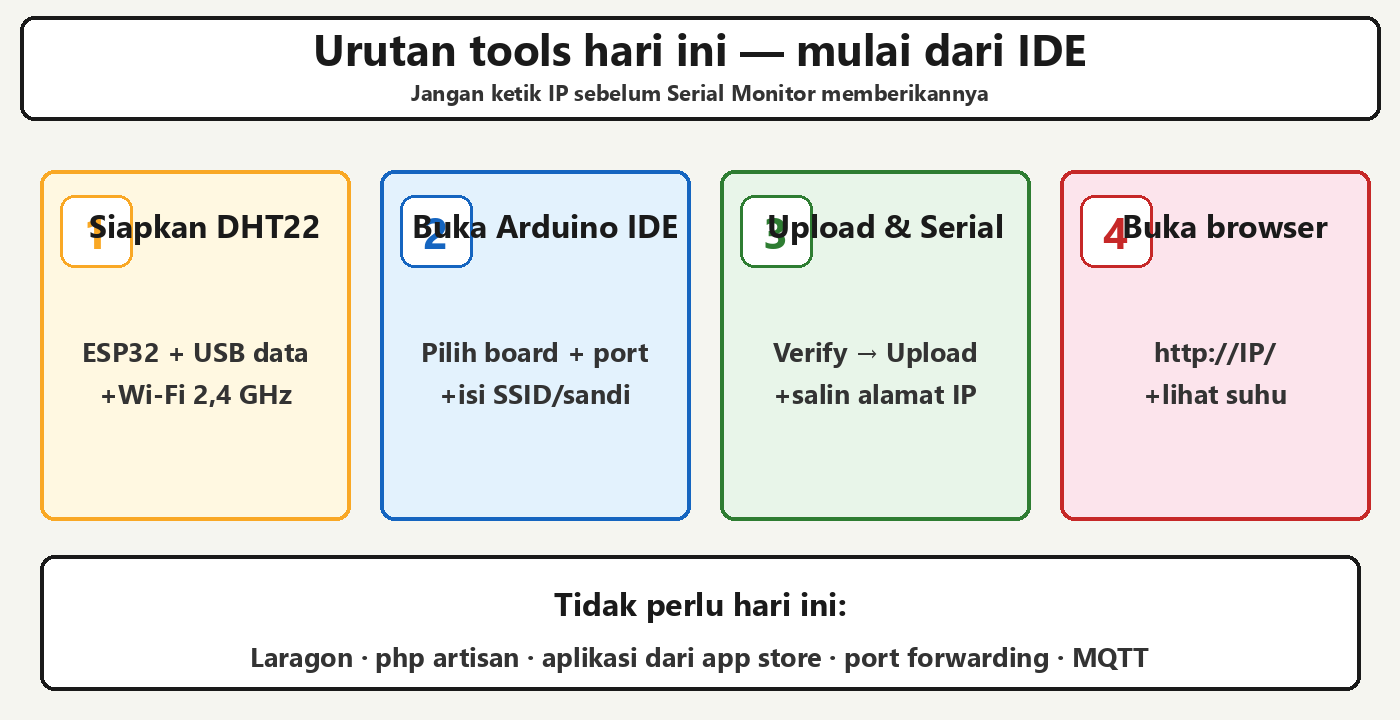
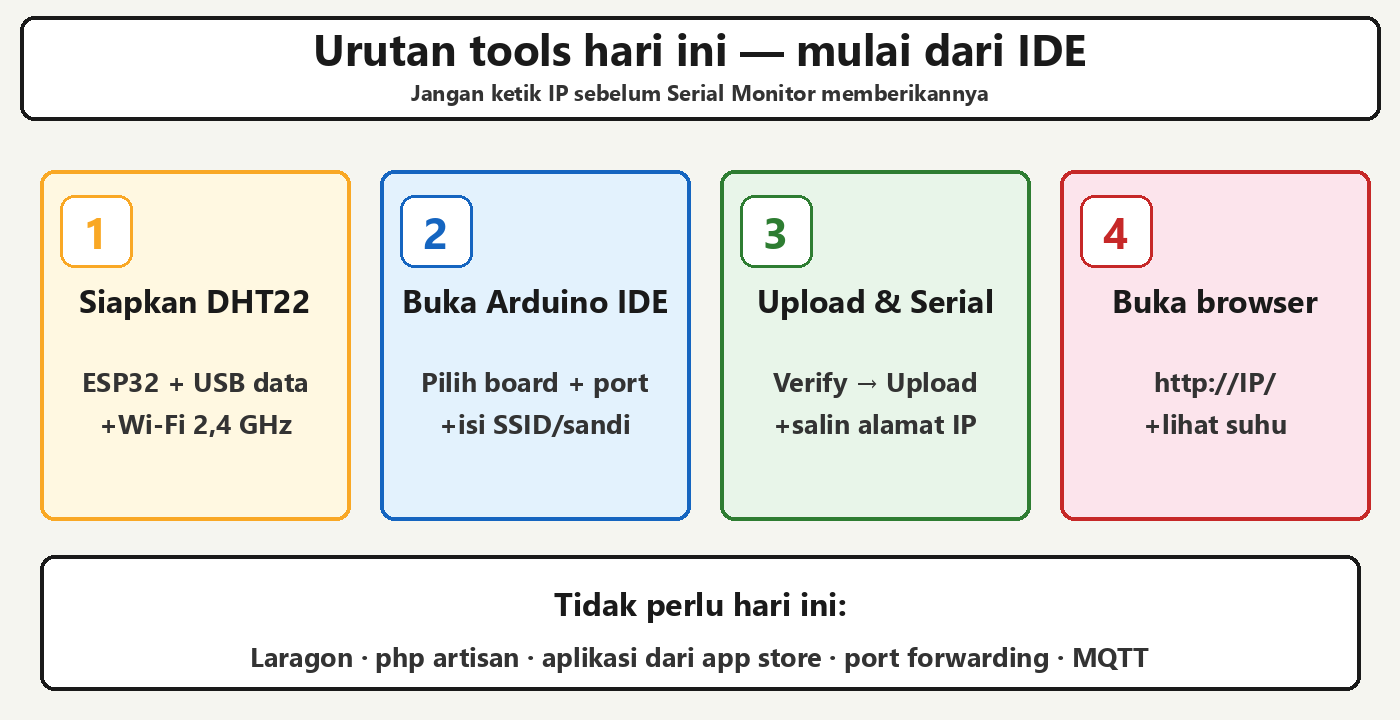
fix(fsiot): polish FS-31 preview assets and schema

diff --git a/scripts/audit-article101.php b/scripts/audit-article101.php
@@ -10,6 +10,8 @@ $routes = file_get_contents($root.'/routes/web.php');
 $controller = file_get_contents($root.'/app/Http/Controllers/DeployController.php');
 $workflow = file_get_contents($root.'/.github/workflows/deploy.yml');
 $blade = file_get_contents($root.'/resources/views/articles/show.blade.php');
+$breadcrumbBlade = file_get_contents($root.'/resources/views/components/breadcrumb.blade.php');
+$authorBlade = file_get_contents($root.'/resources/views/authors/show.blade.php');
 $langId = file_get_contents($root.'/lang/id/ui.php');
 $langEn = file_get_contents($root.'/lang/en/ui.php');
 
@@ -43,6 +45,7 @@ check('workflow curl101 exists', str_contains($workflow, 'id: curl101'));
 check('workflow assets allowlisted', str_contains($workflow, 'fs31-local-network.png') && str_contains($workflow, 'fs31-cover-web-server.webp'));
 check('deploy hook token is enforced for every public action', ! preg_match('/^    public function \w+\([^\n]*\)\R    \{\R(?!        \$this->authorizeDeployHook\(\);)/m', $controller));
 check('deploy token is accepted only through the request header', str_contains($controller, "request()->header('X-Deploy-Token')") && ! str_contains($controller, "request()->query('token'"));
+check('JSON-LD @context is escaped from Blade directives', str_contains($blade, '"@@context"') && str_contains($breadcrumbBlade, "chr(64) . 'context'") && str_contains($authorBlade, "chr(64) . 'context'"));
 
 check('ID self reference', str_contains($body, '#101 (ini)'));
 check('EN self reference', str_contains($bodyEn, '#101 (this article)'));

diff --git a/scripts/gen-fs31-assets.py b/scripts/gen-fs31-assets.py
@@ -78,9 +78,9 @@ for index, (number, title, body, fill, color) in enumerate(steps):
     box(draw, (left, 170, left + 310, 520), fill, color)
     box(draw, (left + 20, 195, left + 92, 267), "#FFFFFF", color, 3)
     text(draw, left + 56, 231, number, TITLE, color)
-    text(draw, left + 165, 225, title, HEADING)
+    text(draw, left + 155, 300, title, HEADING)
     for line_index, line in enumerate(body.split("\n")):
-        text(draw, left + 155, 350 + line_index * 42, line, BODY, "#333333")
+        text(draw, left + 155, 380 + line_index * 42, line, BODY, "#333333")
 box(draw, (40, 555, 1360, 690))
 text(draw, 700, 603, "Tidak perlu hari ini:", HEADING)
 text(draw, 700, 655, "Laragon · php artisan · aplikasi dari app store · port forwarding · MQTT", BODY, "#333333")

diff --git a/resources/views/components/breadcrumb.blade.php b/resources/views/components/breadcrumb.blade.php
@@ -18,7 +18,7 @@
 @push('schema')
 <script type="application/ld+json">
 {!! json_encode([
-    '@context' => 'https://schema.org',
+    chr(64) . 'context' => 'https://schema.org',
     '@type' => 'BreadcrumbList',
     'itemListElement' => collect($crumbList)->values()->map(function ($crumb, $index) {
         $entry = [

diff --git a/resources/views/authors/show.blade.php b/resources/views/authors/show.blade.php
@@ -16,7 +16,7 @@
 @push('schema')
 @php
     $personSchema = array_filter([
-        '@context' => 'https://schema.org',
+        chr(64) . 'context' => 'https://schema.org',
         '@type' => 'Person',
         'name' => $author->name,
         'url' => route('authors.show', $author->slug),
